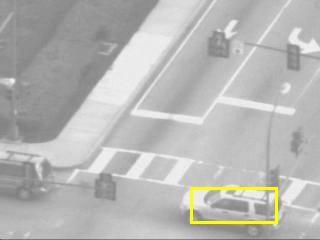
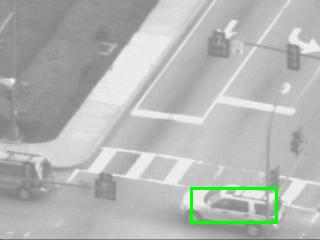
almost-complete

Changed region(s): [[0.5625, 0.7583, 0.9062, 0.9625]]

diff --git a/code/testCarSequenceWithTemplateCorrection.m b/code/testCarSequenceWithTemplateCorrection.m
@@ -13,14 +13,14 @@ for i=1:size(carseq.frames,3)-1
 
 It=carseq.frames(:,:,i);
 
-im = insertShape(It,'rectangle', [rects(i,1),rects(i,2), rects(i,3)-rects(i,1),rects(i,4)-rects(i,2)], 'LineWidth', 3);
-im = insertShape(im,'rectangle', [rects2(i,1),rects2(i,2), rects2(i,3)-rects2(i,1),rects2(i,4)-rects2(i,2)], 'LineWidth', 3);
+im = insertShape(It,'rectangle', [rects(i,1),rects(i,2), rects(i,3)-rects(i,1),rects(i,4)-rects(i,2)],'Color', 'green', 'LineWidth', 3);
+im = insertShape(im,'rectangle', [rects2(i,1),rects2(i,2), rects2(i,3)-rects2(i,1),rects2(i,4)-rects2(i,2)], 'Color', 'yellow', 'LineWidth', 3);
 imshow(im);
-% if(i==1 || i==100|| i==200 || i==300 || i==400)
-% imnum= i;
-% imname=strcat('../results/frame', i, '.jpg');
-% imwrite(im, imname, 'jpg');
-% end
+if(i==1 || i==4|| i==100|| i==125|| i==200 || i==300 || i==380|| i==400)
+imnum= i;
+imname=strcat('../results/carseqtemplatecorrectionframe', i, '.jpg');
+imwrite(im, imname, 'jpg');
+end
 It1=carseq.frames(:,:,i+1);
 [u,v] = LucasKanade(It, It1, rects(i,1:4));
 [ustar,vstar]=LucasKanadeTemplateCorrection(Itbase, It1, rects2(i,1:4));

diff --git a/code/testCarSequence.m b/code/testCarSequence.m
@@ -13,7 +13,7 @@ for i=1:size(carseq.frames,3)-1
 % rectangle('position', [rect(1), rect(2), rect(3)-rect(1), rect(4)-rect(2)], 'EdgeColor', 'g');
 It=carseq.frames(:,:,i);
 
-im = insertShape(It,'rectangle', [rects(i,1),rects(i,2), rects(i,3)-rects(i,1),rects(i,4)-rects(i,2)], 'LineWidth', 3);
+im = insertShape(It,'rectangle', [rects(i,1),rects(i,2), rects(i,3)-rects(i,1),rects(i,4)-rects(i,2)], 'Color', 'green', 'LineWidth', 3);
 imshow(im);
 if(i==1 || i==4|| i==100|| i==125|| i==200 || i==300 || i==380||i==400)
 imnum= i;
